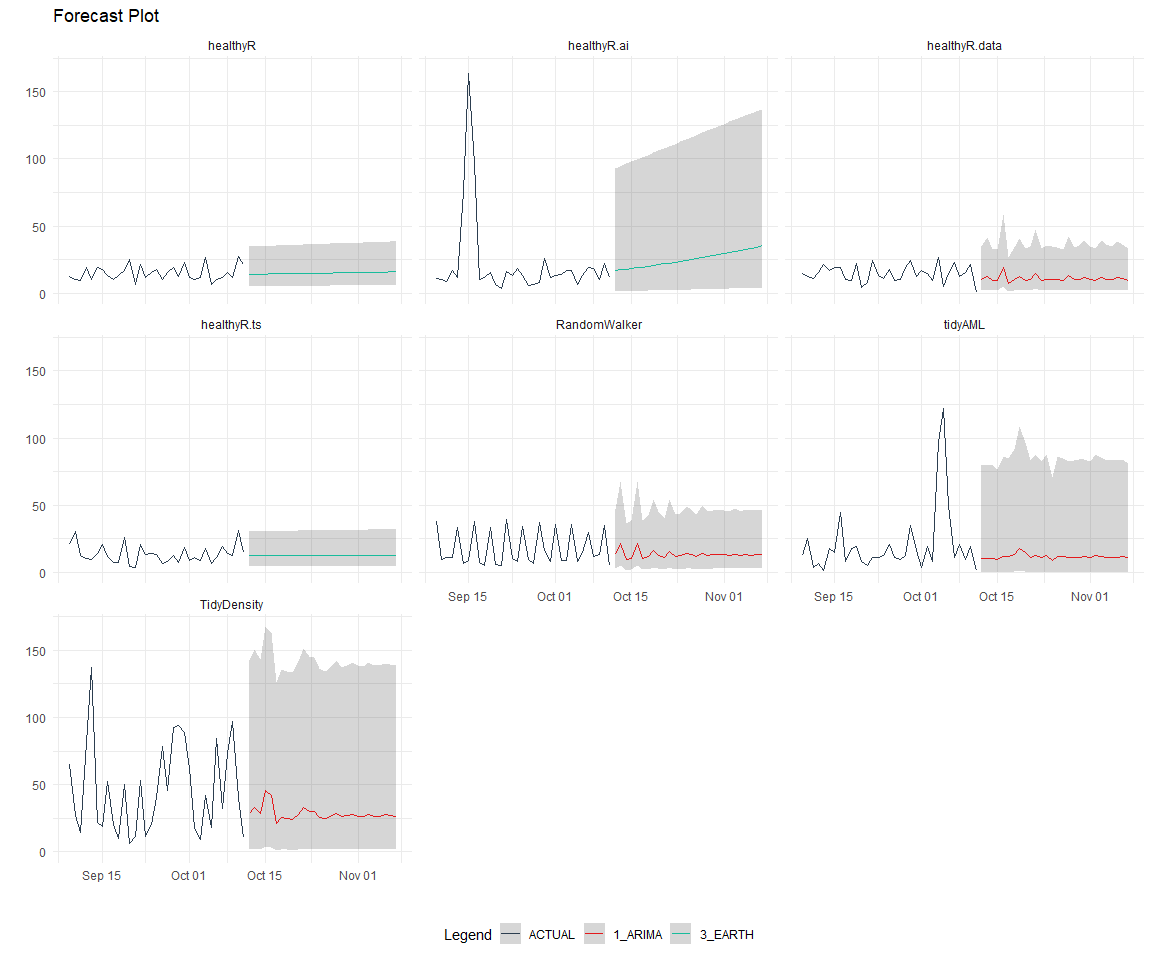
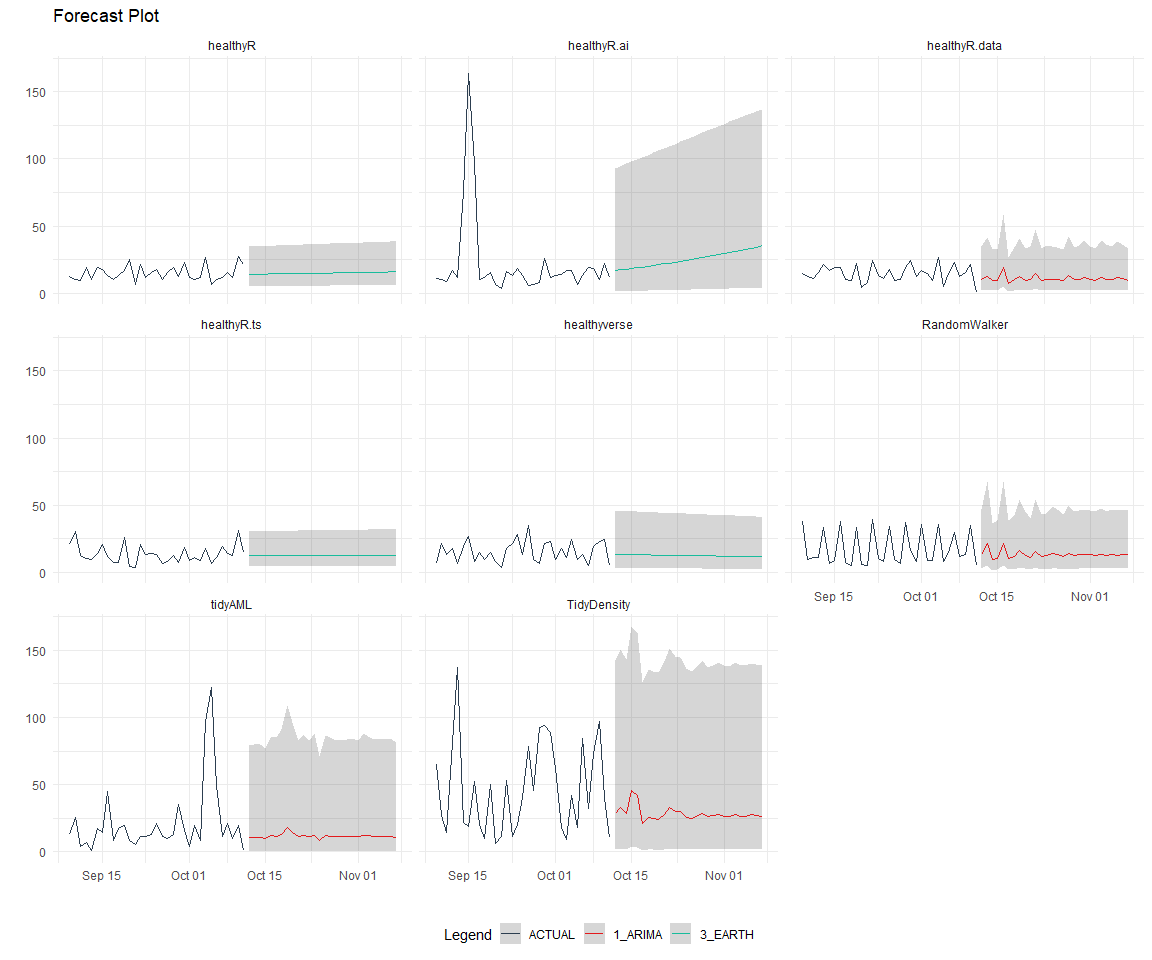
updates

diff --git a/README.md b/README.md
@@ -116,6 +116,45 @@ version release for each package.
 
 ![](man/figures/README-initial_ts_plot-2.png)
 
+    [[1]]
+
+![](man/figures/README-initial_ts_plot-3.png)
+
+
+    [[2]]
+
+![](man/figures/README-initial_ts_plot-4.png)
+
+
+    [[3]]
+
+![](man/figures/README-initial_ts_plot-5.png)
+
+
+    [[4]]
+
+![](man/figures/README-initial_ts_plot-6.png)
+
+
+    [[5]]
+
+![](man/figures/README-initial_ts_plot-7.png)
+
+
+    [[6]]
+
+![](man/figures/README-initial_ts_plot-8.png)
+
+
+    [[7]]
+
+![](man/figures/README-initial_ts_plot-9.png)
+
+
+    [[8]]
+
+![](man/figures/README-initial_ts_plot-10.png)
+
 Now lets take a look at some time series decomposition graphs.
 
     [[1]]
@@ -810,35 +849,35 @@ nested_modeltime_tbl %>%
 | healthyR.data | 1 | ARIMA | Test | 0.6601326 | 120.32843 | 0.8116885 | 164.4103 | 0.8169147 | 0.0485435 |
 | healthyR.data | 2 | LM | Test | 0.8573454 | 201.35971 | 1.0541781 | 158.3865 | 1.0249038 | 0.0078142 |
 | healthyR.data | 3 | EARTH | Test | 0.7066368 | 134.71174 | 0.8688692 | 162.5467 | 0.8601775 | 0.0188740 |
-| healthyR.data | 4 | NNAR | Test | 0.8905262 | 194.05694 | 1.0949766 | 170.2104 | 1.0588583 | 0.0003296 |
+| healthyR.data | 4 | NNAR | Test | 0.8752959 | 215.51733 | 1.0762497 | 164.4546 | 1.0268361 | 0.0004709 |
 | healthyR | 1 | ARIMA | Test | 0.6169887 | 212.42010 | 1.0217282 | 183.4842 | 0.7239929 | 0.0723092 |
 | healthyR | 2 | LM | Test | 0.8000694 | 304.33726 | 1.3249083 | 164.7589 | 0.9966224 | 0.0281565 |
 | healthyR | 3 | EARTH | Test | 0.4916071 | 480.82459 | 0.8140973 | 100.7094 | 0.6119789 | 0.0000764 |
-| healthyR | 4 | NNAR | Test | 0.6926669 | 275.91353 | 1.1470506 | 158.1280 | 0.8754432 | 0.0320123 |
+| healthyR | 4 | NNAR | Test | 0.6256170 | 229.05396 | 1.0360166 | 153.7098 | 0.8025323 | 0.0061851 |
 | healthyR.ts | 1 | ARIMA | Test | 0.5182842 | 102.31963 | 0.7162126 | 157.9529 | 0.6457418 | 0.0000009 |
 | healthyR.ts | 2 | LM | Test | 0.6623307 | 157.03842 | 0.9152693 | 138.0505 | 0.8007437 | 0.0066360 |
 | healthyR.ts | 3 | EARTH | Test | 0.4949660 | 95.35195 | 0.6839895 | 139.4596 | 0.6035165 | 0.0350152 |
-| healthyR.ts | 4 | NNAR | Test | 0.6954251 | 196.10973 | 0.9610022 | 152.5024 | 0.7837286 | 0.0006339 |
+| healthyR.ts | 4 | NNAR | Test | 0.7426797 | 223.08156 | 1.0263030 | 155.8543 | 0.8540704 | 0.0022885 |
 | healthyverse | 1 | ARIMA | Test | 0.8259814 | 163.12823 | 0.9596370 | 159.7028 | 0.9561649 | 0.2379739 |
 | healthyverse | 2 | LM | Test | 0.7387473 | 162.33591 | 0.8582872 | 143.1533 | 0.9092614 | 0.0953879 |
 | healthyverse | 3 | EARTH | Test | 0.7104780 | 108.07383 | 0.8254435 | 158.2362 | 0.8555899 | 0.0006976 |
-| healthyverse | 4 | NNAR | Test | 0.6297443 | 157.92100 | 0.7316459 | 132.4525 | 0.7791397 | 0.0490869 |
+| healthyverse | 4 | NNAR | Test | 0.6826699 | 154.72782 | 0.7931356 | 134.0292 | 0.8568329 | 0.0665412 |
 | healthyR.ai | 1 | ARIMA | Test | 0.9140297 | 126.15368 | 1.1587857 | 170.6439 | 1.4492604 | 0.0698213 |
 | healthyR.ai | 2 | LM | Test | 0.8946417 | 156.31456 | 1.1342060 | 146.8623 | 1.4790552 | 0.0034261 |
 | healthyR.ai | 3 | EARTH | Test | 0.7685198 | 109.62776 | 0.9743116 | 123.4129 | 1.3506950 | 0.1265967 |
-| healthyR.ai | 4 | NNAR | Test | 0.8398293 | 153.43699 | 1.0647161 | 124.7320 | 1.3802147 | 0.0000042 |
+| healthyR.ai | 4 | NNAR | Test | 0.8691727 | 155.52177 | 1.1019170 | 140.6139 | 1.4486625 | 0.0325782 |
 | TidyDensity | 1 | ARIMA | Test | 1.3043497 | 237.47468 | 1.0099802 | 116.2396 | 1.5725287 | 0.0337912 |
 | TidyDensity | 2 | LM | Test | 1.6324695 | 172.02761 | 1.2640488 | 167.6056 | 2.0032615 | 0.0067521 |
 | TidyDensity | 3 | EARTH | Test | 3.9591177 | 2079.12323 | 3.0656121 | 117.8534 | 4.3251322 | 0.0813785 |
-| TidyDensity | 4 | NNAR | Test | 1.4257504 | 175.74597 | 1.1039827 | 133.1948 | 1.7335650 | 0.0018027 |
+| TidyDensity | 4 | NNAR | Test | 1.4014346 | 196.50316 | 1.0851546 | 136.7340 | 1.6869273 | 0.0019135 |
 | tidyAML | 1 | ARIMA | Test | 1.0848220 | 176.51751 | 0.9821354 | 173.0720 | 1.4869497 | 0.0000056 |
 | tidyAML | 2 | LM | Test | 1.1471393 | 228.62558 | 1.0385539 | 169.7834 | 1.5754629 | 0.0068864 |
 | tidyAML | 3 | EARTH | Test | 1.1689967 | 226.01051 | 1.0583424 | 167.1438 | 1.5454116 | 0.0046012 |
-| tidyAML | 4 | NNAR | Test | 1.0833815 | 200.83747 | 0.9808313 | 158.6771 | 1.5129049 | 0.0000946 |
+| tidyAML | 4 | NNAR | Test | 1.1537900 | 231.42765 | 1.0445751 | 162.8369 | 1.5460495 | 0.0020810 |
 | RandomWalker | 1 | ARIMA | Test | 0.7850295 | 369.06370 | 0.5850664 | 148.5667 | 0.8773627 | 0.2731129 |
 | RandomWalker | 2 | LM | Test | 0.8248683 | 687.15444 | 0.6147574 | 147.1050 | 0.9481699 | 0.0045047 |
 | RandomWalker | 3 | EARTH | Test | 0.9173230 | 603.79778 | 0.6836620 | 144.7441 | 0.9714919 | 0.0209685 |
-| RandomWalker | 4 | NNAR | Test | 0.8743060 | 984.18972 | 0.6516023 | 138.2255 | 1.0388892 | 0.0001579 |
+| RandomWalker | 4 | NNAR | Test | 0.9476746 | 908.61466 | 0.7062824 | 153.7996 | 1.1238585 | 0.0157189 |
 
 ### Plot Models
 
@@ -883,7 +922,7 @@ best_nested_modeltime_tbl %>%
     1 healthyR.da…         1 ARIMA       Test  0.660 120.  0.812  164. 0.817 4.85e-2
     2 healthyR             3 EARTH       Test  0.492 481.  0.814  101. 0.612 7.64e-5
     3 healthyR.ts          3 EARTH       Test  0.495  95.4 0.684  139. 0.604 3.50e-2
-    4 healthyverse         4 NNAR        Test  0.630 158.  0.732  132. 0.779 4.91e-2
+    4 healthyverse         3 EARTH       Test  0.710 108.  0.825  158. 0.856 6.98e-4
     5 healthyR.ai          3 EARTH       Test  0.769 110.  0.974  123. 1.35  1.27e-1
     6 TidyDensity          1 ARIMA       Test  1.30  237.  1.01   116. 1.57  3.38e-2
     7 tidyAML              1 ARIMA       Test  1.08  177.  0.982  173. 1.49  5.57e-6
